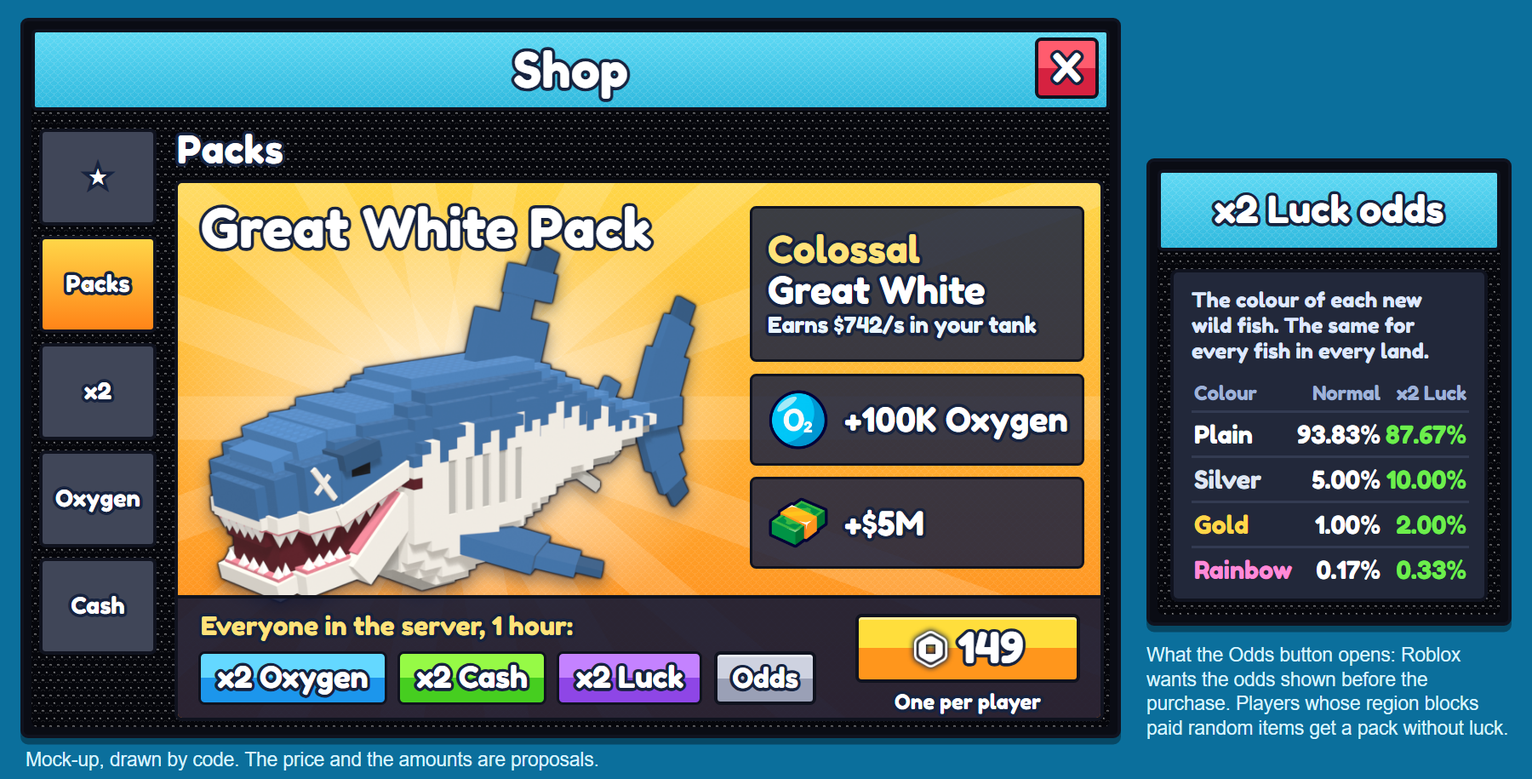
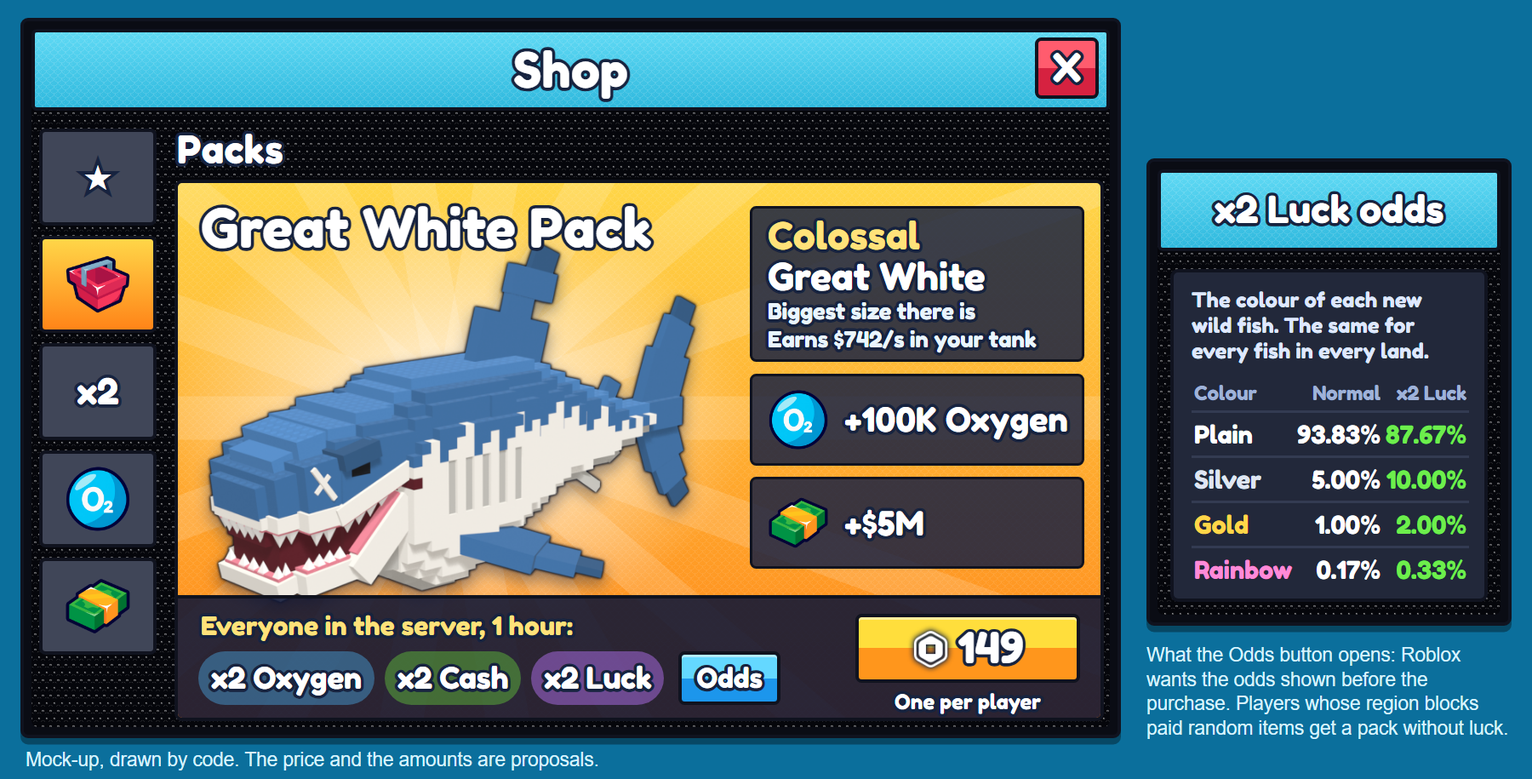
Starter packs after the advisor: the same-price comparison, the Helicoprion gate, the card's Odds button

diff --git a/tools/ui/starter_pack_card.py b/tools/ui/starter_pack_card.py
@@ -76,14 +76,15 @@ body{width:%(W)dpx;height:%(H)dpx;background:#0b6f9c;font-family:F;color:#fff;ov
 .band{position:absolute;left:0;right:0;bottom:0;height:96px;background:rgba(14,22,54,.88);border-top:3px solid #10131f}
 .band .l{position:absolute;left:18px;top:9px;font-size:20px;color:#ffe27a}
 .chips{position:absolute;left:16px;top:41px;display:flex;gap:8px}
-.chip{height:42px;padding:0 13px;border:2.5px solid #10131f;border-radius:5px;font-size:23px;line-height:37px;white-space:nowrap}
+.chip{height:42px;padding:0 10px;border-radius:21px;font-size:23px;line-height:42px;white-space:nowrap}
 .btn{position:absolute;border:3px solid #10131f;border-radius:5px;text-align:center;box-shadow:inset 0 2px 0 rgba(255,255,255,.5)}
 .buy{right:16px;top:12px;width:176px;height:54px;background:linear-gradient(#ffde3c 50%%,#ff961c 50%%);font-size:33px;line-height:48px}
 .rb{height:30px;vertical-align:-4px;margin-right:6px;filter:drop-shadow(0 0 2px #17233f) drop-shadow(0 0 1px #17233f)}
-.odds{left:420px;top:41px;width:80px;height:42px;background:linear-gradient(#ced2e0 50%%,#9aa0b6 50%%);font-size:21px;line-height:36px}
+.odds{left:392px;top:41px;width:80px;height:42px;background:linear-gradient(#64d8ff 50%%,#1c96ec 50%%);font-size:21px;line-height:36px}
 .once{position:absolute;right:16px;width:176px;top:71px;text-align:center;font-size:16px}
 .rail{position:absolute;left:12px;top:84px;width:92px}
-.rail div{height:76px;margin-bottom:8px;border:3px solid #10131f;border-radius:5px;background:#404658;text-align:center;font-size:18px;line-height:70px}
+.rail div{height:76px;margin-bottom:8px;border:3px solid #10131f;border-radius:5px;background:#404658;text-align:center;font-size:28px;line-height:70px}
+.rail img{height:52px;margin-top:9px}
 .rail div.on{background:linear-gradient(#ffd648,#ff8418)}
 .sec{position:absolute;left:120px;top:82px;font-size:30px}
 .pop .in2{position:absolute;left:16px;right:16px;top:84px;bottom:16px;background:#22283a;border:3px solid #10131f;border-radius:6px;padding:12px 14px}
@@ -97,20 +98,20 @@ body{width:%(W)dpx;height:%(H)dpx;background:#0b6f9c;font-family:F;color:#fff;ov
     html = f"""<meta charset=utf-8><style>{font}{css}</style>
 <div class=win style="left:16px;top:14px;width:862px;height:564px"><div class=in></div>
  <div class=head><b class=t>Shop</b><div class="x t">X</div></div>
- <div class=rail><div class=t>★</div><div class="on t">Packs</div><div class=t>x2</div><div class=t>Oxygen</div><div class=t>Cash</div></div>
+ <div class=rail><div class=t>★</div><div class="on"><img src="{u(icons / 'shop.png')}"></div><div class=t>x2</div><div><img src="{u(icons / 'oxygen.png')}"></div><div><img src="{u(icons / 'cash.png')}"></div></div>
  <div class="sec t">Packs</div>
  <div class=card><div class=rays>{rays}</div><div class=studs></div><div class=glow></div>
   <img class=hero src="{u(WORK / 'hero.png')}">
   <div class="name t">Great White Pack</div>
   <div class=items>
-   <div class="it big"><div><b class=t><i>Colossal</i></b><b class=t>Great White</b><s class=t>Earns $742/s in your tank</s></div></div>
+   <div class="it big"><div><b class=t><i>Colossal</i></b><b class=t>Great White</b><s class=t>Biggest size there is</s><s class=t>Earns $742/s in your tank</s></div></div>
    <div class=it><img src="{u(icons / 'oxygen.png')}"><b class=t>+100K Oxygen</b></div>
    <div class=it><img src="{u(icons / 'cash.png')}"><b class=t>+$5M</b></div>
   </div>
   <div class=band><div class="l t">Everyone in the server, 1 hour:</div>
-   <div class=chips><div class="chip t" style="background:linear-gradient(#64d8ff 50%,#1c96ec 50%)">x2 Oxygen</div>
-   <div class="chip t" style="background:linear-gradient(#96fa46 50%,#46ce20 50%)">x2 Cash</div>
-   <div class="chip t" style="background:linear-gradient(#c482ff 50%,#8e46e6 50%)">x2 Luck</div></div>
+   <div class=chips><div class="chip t" style="background:rgba(80,190,255,.38)">x2 Oxygen</div>
+   <div class="chip t" style="background:rgba(110,230,60,.38)">x2 Cash</div>
+   <div class="chip t" style="background:rgba(190,120,255,.45)">x2 Luck</div></div>
    <div class="btn odds t">Odds</div>
    <div class="btn buy t">{robux}{PRICE}</div><div class="once t">One per player</div></div>
  </div></div>

diff --git a/docs/Sessions.md b/docs/Sessions.md
@@ -8,7 +8,6 @@ can build and check each other's work.
 ## Who has what
 | Chat | Working on | Has in hand (ask before editing) | Studio |
 |---|---|---|---|
-| Starter packs (side chat, 2026-11-25; Opus 5.5, Fable advises) | [Starter packs](design/starter-packs.md): drafted the Great White pack and three other deals, a mock-up card, nothing built; waits for the user's answers (five questions at its foot) | `docs/design/starter-packs.md`, `tools/ui/starter_pack_card.py`, `docs/attachments/starter-pack-greatwhite.png` | Not using it |
 | [Ride a Fish creatures](claude://claude.ai/epitaxy/local_ac56bee0-dae0-4cd9-8e53-a67a713dfd13) (took over 2026-11-22 from "Ride a Fish game concept", retired; Fable 5.2) | The voxel creatures' look, remodels and colours (start brief: [handoffs/creature-concept](handoffs/creature-concept.md)). **2026-11-25, in hand: the seahorse rocker evolves**, on the user's word ([workout 13](style/13-seahorse-evolution.md)): twelve new models, each its own bigger animal, the last a 45-stud leviathan; models only, in `art/creatures/Seahorse/evolve/` (Hugo's `tiers/` untouched, the game unchanged); the placement and code go to the game chat after. **2026-11-22: leviathans, on the user's word** ([workout 12](style/12-leviathans.md)): the Scythe Leviathan first (`art/creatures/ScytheLeviathan`, built and fixed once, gate passes, not exported, not in the game; waiting for the user's read), then more in other body plans. Workouts 9, 10 and 11 are set aside ([Decisions](Decisions.md)). Last work, by the old chat: [workout 10](style/10-sharks-round-2.md) (six shark trials, Megalodon V3), [workout 11](style/11-rare-wow-study.md) (the Ride a Dino rare-dino study, seven rare trials), and the land recolour ([the list](design/fish-recolour-list.md), done: 78 keep) | `tools/blender/voxel_kit.py`, `tools/blender/kit_common.py`, `tools/art/rarity_ladder.py`, `tools/art/fish_value_recolour.py`, `art/creatures/*/voxel.py`, `art/style/rarity_ladder/`, `docs/style/04-voxel-style.md`, `docs/style/05-rarity-look.md`, `docs/design/creature-queue.md`, `docs/style/creature-brief.md`, `tools/art/voxel_*.py`, `tools/blender/check_glb.py`, `art/creatures/*/game/`, `docs/style/06-textures.md`, `tools/art/creature_tiles.py`, `art/style/tiles/`, `docs/style/Style workouts.md`, `docs/design/roster.md`, `docs/design/roster-list.md`, `docs/attachments/voxel-*` and `rarity-*`, `art/creatures/Seahorse/evolve/`, `docs/style/13-seahorse-evolution.md`, `docs/attachments/seahorse-evolution*` and `seahorse-rocker-*`, `.claude/skills/creature-look/SKILL.md` (the voxel and rarity rules) | Not using it. Nothing is uploaded |
 | [Ride a Fish game code](claude://claude.ai/epitaxy/local_f2cc01b4-ccd3-4459-947a-63121309af17) (took over 2026-11-22 from [Obsidian chat integration](claude://claude.ai/epitaxy/local_e63fbb3e-8d03-486a-abb0-ff395624b3e4), retired; Fable 5.2 at high) | **To carry on (2026-11-23, evening; the user is switching Fable off):** commit `957cd8f` holds the eaten and drown fixes, the leap on a fish, the tank ride-out (all dials 0), bought Oxygen banked until the dock, the save hooks. **First indicative pass (15 fps, no script errors):** drown, four cases: the body never above the water, on or off; with `Death.UnderWater` on the root jumps 1.7 to 3.1 studs at the takeover (off: 0.05 to 0.16), likely real; Great White with the dials on is at the mouth at the bite but 5 to 6 studs away at the hide (off: 10.7); both fixed in code, unplayed (round 4, behind the same off dials): the drown takes over from the speed last seen while loose (`DeathController`), a Chomp holds at `Fail.HidePull` from the bite and the hide waits up to `Fail.HideLate` for the body to be in the mouth (`FailController`); the Studio test spawn honours workspace's `TestSize`; why Bobbit Worm and Megalodon were never eaten was not found. **The real pass must show:** hand-over 1.0 or less, `seenOutside` and `hiddenOutside` 0, the size applied, Bobbit Worm and Megalodon eaten, `nofail` riding, both runs of surface and lip tested, no camera jerk. **Owed:** the play pass at a real frame rate (Studio only renders 57 fps while it is the FOCUSED window, 15 otherwise): `fail_eat_check.py` (27 eaters, five drown cases), two GIFs (`fail_capture.py`), the dive's frame times, `dive_leap_check.py run mounted ID:Size` at three sizes; then one look check (the GIFs and the splash still `work/dive_leap/dir3_splash.png`), then set the passing dials to 1 in Config (Edit only). Detail: [Handoff](Handoff.md) top entries, [riding feel](design/riding-feel.md) last section, [the dive-in](design/dive-in.md) "The leap on a fish", [equip](design/equip.md). Unanswered by the user: build the Index payout and aura buying now, or hold the numbers. The game code: `src/`, merging Hugo's pushes, pushing the other chats' work, checking the map, UI and tuning chats' pieces. Start brief: [game-code](handoffs/game-code.md). The slower hook ([feel review 3](reviews/feel-review-3.md), A and B) played by hand by the user 2026-11-22, no changes asked. **Written 2026-11-22 for a sale of the game:** a [code map](Code%20map.md), contents lists and section markers in the twelve largest code files (comment lines only), the [check of what to sort](reviews/code-organisation.md) and the [handover plan](plans/sale-readiness.md); **The safe tidy batch done on the user's word** ("tidy as such, just make sure you dont break anything"; [Decisions](Decisions.md)): `ce30041` the `--help/` folder, `8a427ce` dead code, `5dd24f5` comments, `d422ac6` guards in both `Main`; list under "Done" in the check. Checked by StyLua, selene and the Rojo build, then **played in Studio**: boots clean, a scripted dive, `oxygen_check` 12/12 and `e4_land_check` 10/10 pass; the guard tried with broken throwaway modules on both sides; the tank panel, Shop, Sell and the Aura shop open clean; `b4_tank_ride_check` passes after a fix to the check itself (its hold dropped the pretended look for a frame); `tank_panel_check` is out of date (`CollectPad`). All pushed by the vault's auto-sync (23:03). **2026-11-23, checking the tuning chat's economy draft 2 numbers** (uncommitted in `Config.luau`, at its asking): checked on paper (lengths hold for each land's common fish, rare fish 9 to 29% shorter; big prices and the paid seahorse level read sound; the admin panel's limits are below the new needs: all sent to the tuning chat), three checks brought in line, not run (`445020a`). **Play check done (2026-11-23, by script, on the user's "Yes, it's free"):** it boots, `oxygen_check` 12/12, `e4_land_check` 10/10; the Painted level is refused without coins, charged 15,000 exactly once, its sign reads $15K; the plot stages and seahorse levels charge their new prices once (in `b1`, `e2`); a ride at exactly the need lasts 7.92 s on a Sea Scorpion (paper 7.65) and 9.03 s on a Cinder Ray (9.25), tames 3.02 s and 3.65 s. **One game finding: "351,000,000,000" is 27 px too wide for the fish's Oxygen row** (153 against 126; the UI chat's). **The checks themselves are stale** (not fixed): `b1` wants +3 studs a stage (pens grow 12), gives a fish kind that is gone (BlueChromis) and expects an equipped fish to sell; `e2` calls `TankPrompt.control` and `press`, gone since UI review 1; `x1`'s six land steps fail, cause not found (`e4` rides a land fish fine). Asked the user whether to build aura buying and the Index payout: no answer yet. **Now (the user, 2026-11-23): a dive animation for the jump into the water off the strip** (the leap, camera, splash; no sound): [the dive-in](design/dive-in.md), a new `Controllers/DiveController`, behind `Config.Dive.Leap`. **Built, played by script three times, switched on in the file on the user's word ("switch that on for everyone")** (state and what is not known: the dive-in note, "The leap"). Still owed: stills of the new splash and frame times with Studio's window uncovered. **Now (the user, 2026-11-23): the eaten-by-fish fails (Chomp, Gulp: the mouth from the model, the body arriving in it), the plain drown (never above the water) and a dive for a rider on a land fish**, in `FailController`, `DeathController`, `DiveController`, `AnimController`, `Config.Fail`/`Death`/`Dive` and the fail parts of `RideService`. Queued after it (the user): riding a fish out of your tank "as if you took it out". **State 2026-11-23 evening: all three written, unplayed, their dials 0 in the file** (`Fail.MouthFromModel`, `Arrive`, `Smooth`, `Death.UnderWater`, `Dive.LeapMounted`; checks `tools/studio/fail_eat_check.py`, `dive_leap_check.py run mounted`), under review; waiting for Studio. **Save and purchase hooks for the UI chat are on disk** (`AquariumService.dump/restore/give`, `RideService.trainedOxygen/setTrainedOxygen/grantOxygen`, `TrainService.levelOf/setLevel`, `SubService.tierOf/equipOf/setSub`; nothing calls them while the UI chat's `SaveParts` switch is off). Next after that: the user's word (the unpicked UI looks, the two renames, stage 1 of the handover plan). Waiting on the user: the fish count (20 now, 40 measured best), the map chat's three herd ideas, whether to push the map chat's `parts.json` studies. Waiting on the user and Hugo: which fish icons stay, which fast-fish allowance stays in `RideService` (`nearness` or `Jump.LandLag`) | `src/` apart from the files in the UI and tuning chats' rows; `.claude/skills/game-code/SKILL.md`; `tools/review/`, `docs/reviews/`; `docs/Handoff.md` entries for this PC's pushes. Nothing half-done | Not using it (2026-11-25: the camera under the catch show and the ride slot's size and colour, pushed in as four scripts and checked; before it the land's own fish round a rider and the seahorse's pops, synced and checked, with the fish and hook work before them; **place not saved**; Edit, mouse and camera reset, `LessonTest` true) |
 | [Ride a Fish map](claude://claude.ai/epitaxy/local_257d6d0c-f735-40b9-a06b-abb677deb1bb) (took over 2026-11-22 from the old [Ride a Fish map](claude://claude.ai/epitaxy/local_358148f9-feae-424c-a34f-369791ac2c42), retired; Opus 5.5, Fable 5.2 advises) | The map and the hub. Start brief: [handoffs/map](handoffs/map.md). **Last work (2026-11-22): square studs** (Roblox's own stud in our picture, `tile3`; [map-structure](design/map-structure.md), "Square studs"), swapped on the loaded place with no reload; before it the hub's W32 ([hub-layout](design/hub-layout.md), "Picked: W32"). Saved by the user's word (version 357). **Then hub review 2** ([hub-review-2](design/hub-review-2.md), `5e38698`, `3869c5b`: scale, open pens, layout S, water see-through): built: **S with the pens that grow is the live hub, saved (2026-11-23, `2881171`, `e8fe229`; version 403, with Hugo's seahorse and sub models installed).** The three game-code changes are in. Waiting on the user: heights and trim colours, floor studs at 0.64. Next: the user's call (the seven parked art steps are the standing list). Before that, by the old chat: the far view as real models (`Workspace.FarView`) and the painted sky fallback for low graphics (the game-code chat's). Then the seven parked art steps (the brief) **Then (2026-11-23): the early lands' props' colours by rule** ([colour](design/colour.md), "A bit less random") **and litter on the hub's first ledge** ([hub-review-2](design/hub-review-2.md)): saved, version 433. | `tools/studio/claude_blockout.luau`, `tools/studio/bake_map.luau`, `tools/studio/depth_look_test.luau`, `tools/art/map_plot.py`, `tools/art/map_tiles.py`, `tools/art/map_roblox_textures.py`, `tools/map/` (the grey-box generator and the asset kit), `tools/blender/map_greybox_view.py`, `tools/studio/greybox/` (generated: the Studio loader), `art/map/`, `tools/blender/map_stud_test.py`, `art/blockout/`, `art/props/`, `art/style/map_tiles/`, `docs/blockout.md`, `docs/map-state.md`, `docs/design/map-method.md`, `docs/design/map-structure.md`, `tools/studio/map_bench.luau`, `tools/studio/texture_test.luau`, `docs/reference/ride-a-dino-map.md`, `docs/attachments/map-*` and `blockout-*` | Free (2026-11-25, id 115bd434: water tried in Play, client only, stopped, mouse and camera reset, **nothing changed or saved**). Before: (2026-11-23: early lands' prop colours and the hub's ledge litter put in by script and saved, version 433; id 3b999aa2; the user works in it by hand, so read hand placing first: Fuse moved, Index deleted) |
@@ -17,6 +16,7 @@ can build and check each other's work.
 | Old creature chat (side job, 2026-11-25; local_9fbe7dba) | Six creatures into the game on the user's word: Great White remodel, Whale Shark, Ginsu Shark, Otodus, Ringbearer, Totality ([add notes](design/added-2026-11-25.md)) | `art/creatures/` GreatWhite, WhaleShark, GinsuShark, Otodus, Ringbearer, Totality; their rows in `Config.luau` and `RideStyles.luau`; `src/shared/Creatures/` for them; `tools/creatures/*.json` | has it (2026-11-25, id 115bd434: upload and install) |
 | Game finder (side chat, 2026-11-23; Opus 5.5) | A tool that lists Roblox games of 1,000 players and up whose owners might sell to a buyer the user finds games for ([how](reference/research-tools.md)). Built and run once; not part of the game | `tools/sources/gamefinder.py` and its section in `docs/reference/research-tools.md` | Not using it |
 | First minutes (side chat of the game-code chat, 2026-11-23; Opus 5.5, Fable advises) | [The first minutes](design/first-minutes.md): the study, and since the user's "yes, game code is busy right now but if you can do both at same time then yes" the build of its smallest set (section 5): **built, tried by the user by hand, polished 2026-11-24 on their word (overlaps, cuts, the arrows), off (`Config.Lesson.On` 0)**; what was and wasn't checked: the note's "Built". Waits for the user: another try, then turn it on? | `docs/design/first-minutes.md`; new: `LessonService`, `LessonController`, `UI/LessonPrompt`, `UI/LessonPointer`; `Config.Lesson` only; small edits, done: `RideService`, `FishService`, `Lib/Lock`, `UI/DockNotes`, `UI/HopButton`, `StallController` | Not using it (3b999aa2 left in Edit; `LessonTest` on; not saved by me) |
+| Starter packs (side chat, 2026-11-25; Opus 5.5, Fable advises) | Done, waiting for the user's answers (five questions at the note's foot): [Starter packs](design/starter-packs.md), the Great White pack and three other deals, a mock-up card (`tools/ui/starter_pack_card.py`). Nothing built, nothing in Studio. For the tuning chat: `tools/balance/rad_economy.py` crashes (KeyError 'GinsuShark') until the five new kinds are in `e1_bases.json` | Nothing in hand | Not using it |
 
 The links open the chat in the Claude app on the PC it runs on.
 

diff --git a/docs/design/starter-packs.md b/docs/design/starter-packs.md
@@ -22,7 +22,7 @@ left alone for now" (2026-11-24).
 | Cash | $1M | **$5M** | $1B | |
 | Server boost | none | **x2 Oxygen, cash, luck, 1 h** | the same, 1 h | the same, 30 min |
 | The lumps at the Shop's own prices | 108 | 108 to 248 (below) | 548 | |
-| Shown | until land 4 is held | **until land 6 is held** | from land 4 until land 7 is held | always |
+| Shown | until land 4 is held | **until land 6 is held** | from land 5 until land 7 is held | always |
 | Bought | once | **once** | once | again and again |
 
 "Held" is the land's commonest fish's need. One pack's card at the top of Packs, the others under it.
@@ -66,12 +66,18 @@ five new kinds are left out because the model has no base numbers for them yet):
   shark would be behind them at once.
 - On the shark at 100K Oxygen: about 8 seconds a full meter. It is a ride, not a long one.
 
-**Is it good value?** At our own fixed prices the two rungs below it (50K Oxygen 59, $1M 49) add to 108; buying the next rungs up is
-149 + 99 = 248. The pack's lumps sit between, and the shark and the hour come on top. The reference's server luck alone is 99 for 15
-minutes. The honest weak spot: **500K Oxygen costs 149 in the same Shop**, so a buyer who only wants Oxygen should buy that. If the
-user would rather have the pack look plainly better than that, use 500K + $25M and accept the skip above.
+**Is it good value?** Yes, at 149. Beside the Shop's own 149 pack (500K Oxygen, nothing else), both bought at 3 minutes:
 
-**Limits:** once per account, for good; a saved flag checks it. **No clock and no struck-out price**: the project's own rule
+| 149 Robux buys | land 5 | land 6 | land 7 | land 8 |
+|---|---|---|---|---|
+| 500K Oxygen (the Shop's) | 3 min | 37 min | 2.0 h | 3.9 h |
+| The Great White Pack | 6 min | 33 min | 78 min | 3.2 h |
+
+The pack's lumps sit between the rungs that cost 108 (50K + $1M) and 248 (500K + $25M). The hour alone is 198 at Server Rush's
+proposed price; the reference's server luck alone is 99 for 15 minutes. The weak spot a buyer will see first is the Oxygen number:
+100K against 500K for the same 149. Bought after an hour of play the 500K pack is the better one for land 6 (62 minutes against 69), the pack still for land 7 (111 minutes against 2.4 h).
+
+**Limits:** a **developer product**, not a pass (`Products.luau`'s Starter row is a Pass today: change it), once per account, for good; a saved flag checks it. **No clock and no struck-out price**: the project's own rule
 ([menus](../reference/fast-food-menus.md), "never: timers, struck-out prices"), and children buy here. It is hidden once land 6 is
 held, so it never shows to a player it does little for. If the flag and Roblox's receipt disagree, the pack is still given: the player
 has paid.
@@ -91,7 +97,7 @@ has paid.
   59 pack does.
 - **Helicoprion Pack, 399.** 5M Oxygen and $1B are 548 of rungs; the boost and a Legendary on top. Bought at 29 minutes it puts a player
   in land 6 at once and land 7 at 48 minutes (free: 2.5 h). Too much for a new player (land 7 at 20 minutes if bought at 3), so
-  it is hidden until land 4 is held.
+  it is hidden until land 5 is held (about 29 minutes free; a Great White buyer gets there at 6, and it is then the next thing to buy).
 - **Server Rush, 99, 30 minutes.** The same boost without a shark, bought again and again: the packs sell once an account, and this is
   what sells after them. Needs nothing the Great White pack's boost did not already build. Same random-item rules.
 
@@ -126,7 +132,7 @@ From Roblox's own pages, read 2026-11-25 ([paid random items](https://create.rob
 - Before the purchase the player must be able to see every outcome's odds as numbers adding to 100%, what the boost changes, and
   (while it runs) odds that match. A bare "i" isn't enough: the card has an **Odds** button.
 - Where `PolicyService` says paid random items are restricted for a player, they must not be sold one: **a second product at the same
-  price without luck** (x2 Oxygen and cash for 90 minutes), sharing the once-only flag.
+  price without luck** (x2 Oxygen and cash for 90 minutes), sharing the once-only flag. Three packs hold luck, so that is **three more products** and three more cards.
 - The game's content questionnaire asks about paid random items: the user answers it again.
 - **Not confirmed, ask Roblox before launch:** whether a restricted player may be in a server where another's luck runs; whether a
   free wild catch under paid luck counts; which countries are restricted; whether the odds must list kinds and sizes too. Whether a
@@ -134,22 +140,25 @@ From Roblox's own pages, read 2026-11-25 ([paid random items](https://create.rob
 
 ## Recommended order
 **Build the pack with Oxygen and cash only, put luck in second.** Oxygen and cash are where the time saved is; luck is the costly
-part (odds screen, live odds, the policy check, a second product, the questionnaire) and it makes the whole pack a random item.
+part (odds screen, live odds, the policy check, three more products, the questionnaire) and it makes the whole pack a random item.
 Ship x2 Oxygen and x2 cash for the whole server with the shark at launch, then add luck. The user asked for luck, so the mock-up
 has it and it is one question below.
 
 ## What would have to be built
 | Part | Who |
 |---|---|
-| Robux products (the pack, its no-luck twin, Server Rush and the other packs), the content questionnaire, asking Roblox the open points | The user |
+| Robux products (four developer products; seven once luck is in, a no-luck twin for three), the content questionnaire, asking Roblox the open points | The user |
 | **Saving switched on** (a once-only pack needs it), a grant of several things in one receipt, the once-only flag, the boost's saved end times | Game code |
 | The server boost (clock, extend, banner text, the three multipliers), `FishService` rolling with luck, the policy check | Game code |
-| The pack's card in the Shop, the odds window, the banner and clock chip, the purchase moment, the old Starter pass row replaced | UI |
+| The pack's card (a new tall kind: 424 high against the Shop's 128 and 168), the odds window, the banner and clock chip, the purchase moment, the old Starter pass row replaced | UI |
 | The Great White: save the place (templates are in the open Studio only), a slot picture for the new model, check a 146-stud shark on the dock, ridden on land and in a tank (none checked) | Creatures, then map |
 | Amounts and prices, the boost's numbers in the balance model, the model's base numbers for the five new kinds | Tuning |
 
 ## Questions only the user can answer
-1. **Prices:** 149 (the recommendation) or 199 for the Great White pack, and 49 / 399 / 99 for the others?
+1. **Prices:** 149 (recommended) or 199 for the Great White pack, and 49 / 399 / 99 for the others? The facts: the reference's starter
+   pack was 99 with a 24-hour clock and is now 39 / 149 / 279; of players who pay, most spend 1 to 800 Robux in all; prices
+   of 250 to 400 beat 650; a poor-value starter pack cut spending across the whole game ([videos](../reference/roblox-videos.md)).
+   A 199 sale leaves about $0.53 and a 149 sale about $0.40, so 199 is only better if it sells at least three for every four.
 2. **Luck now or after launch?** (Recommended: after.)
 3. **How big:** 100K + $5M (the shark stays useful) or 500K + $25M (plainly worth more than the Shop's 149 pack, skips to land 5)?
 4. **Which Great White:** plain Colossal, or a version no one can catch (a new model or colour, more work, more pull)?
